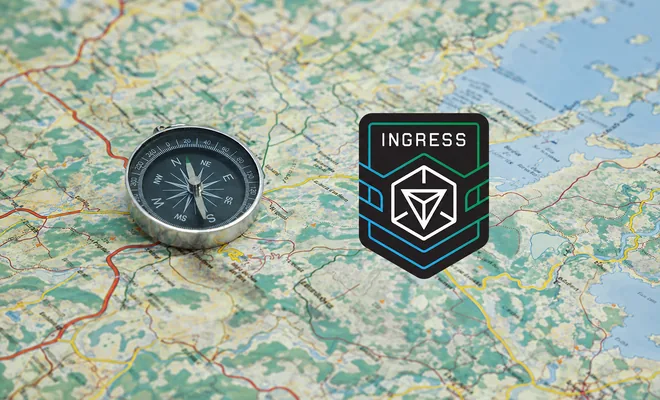
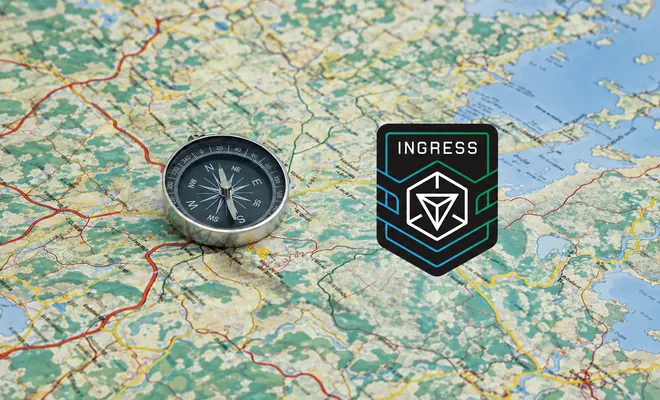
feat(images): center and enlarge compass placeholder subjects

diff --git a/docs/FRONTEND_ARCHITECTURE.md b/docs/FRONTEND_ARCHITECTURE.md
@@ -57,7 +57,7 @@ src/styles/                       保留现有样式分组与 class 名
 
 详情 store 按 ID 保留不可变 snapshot；同 ID 在途请求复用，通知只发给该 ID 的订阅者。消费者离开后仅当最后一个使用者离开才取消未完成请求；成功数据不会清除。控制器身份检查丢弃迟到结果，响应 ID 必须匹配；明确 retry 或关闭再打开失败详情都会重试，保持旧行为。Provider 的 value 始终是同一个 store，不因某活动加载而广播更新整个应用。
 
-`MissionImage` 在没有 `picture` 时使用用户上传的 AI 扩图版指南针／地图／Ingress 标志照片（1536×1024）：默认 `public/event-placeholder-thumbnail.webp`，完整图片等比例缩至 480×320（3:2）；详情通过 `placeholderVariant="detail"` 使用 `public/event-placeholder-detail.webp`，保持全宽，居中轻裁上下（源区域高度约 931px）→ 660×400（约 1.65:1）。沿用扩图版色彩和主体，不进一步改色或重绘，以 quality 82 WebP 保存；不使用虚化填充、不添加暗角。扩图由用户提供，模型可能已重绘主体细节，不能视作最初原图的像素级保真版本。档案和日历的占位缩略图在桌面及手机均保持 3:2，详情沿用 1.65:1；contain 显示，避免二次裁切或拉伸。alt 明确说明是占位图，原始业务数据不变。新文件名避免旧图标缓存沿用。真实图片仍沿用原 URL、加载状态和懒加载；请求失败仍显示失败提示，详情保留重试按钮，不用占位图掩盖网络错误。占位资源跟随 BASE_URL，随前端构建打包，不请求外部图片服务。
+`MissionImage` 在没有 `picture` 时使用用户最新上传的 AI 扩图版指南针／地图／Ingress 标志照片（1611×976）。以两个主体的联合边界约 `(490, 314, 1135, 607)` 为构图参考，中心为 `(812.5, 460.5)`，而不是直接使用整张地图的几何中心。按用户要求，在整体居中的基础上将双主体放大约 20%（源裁切区域高度从 921px 收紧至 767.5px）。默认 `public/event-placeholder-thumbnail.webp`，源裁切框 `(236.875, 76.75, 1388.125, 844.25)` → 480×320（3:2），WebP quality 82；详情通过 `placeholderVariant="detail"` 使用 `public/event-placeholder-detail.webp`，源裁切框 `(179.3125, 76.75, 1445.6875, 844.25)` → 660×400（约 1.65:1），quality 78，使每版保持在 64 KiB 以内。两版裁切框均以双主体为中心，保留完整主体，使用等比例 Lanczos 缩放。沿用上传图色彩和主体，不进一步改色或重绘；不使用虚化填充、不添加暗角。扩图由用户提供，模型可能已重绘主体细节，不能视作最初原图的像素级保真版本。档案和日历的占位缩略图在桌面及手机均保持 3:2，详情沿用 1.65:1；contain 显示，避免二次裁切或拉伸。alt 明确说明是占位图，原始业务数据不变。新文件名避免旧图标缓存沿用。真实图片仍沿用原 URL、加载状态和懒加载；请求失败仍显示失败提示，详情保留重试按钮，不用占位图掩盖网络错误。占位资源跟随 BASE_URL，随前端构建打包，不请求外部图片服务。
 
 ## URL 和 UI 协作
 
